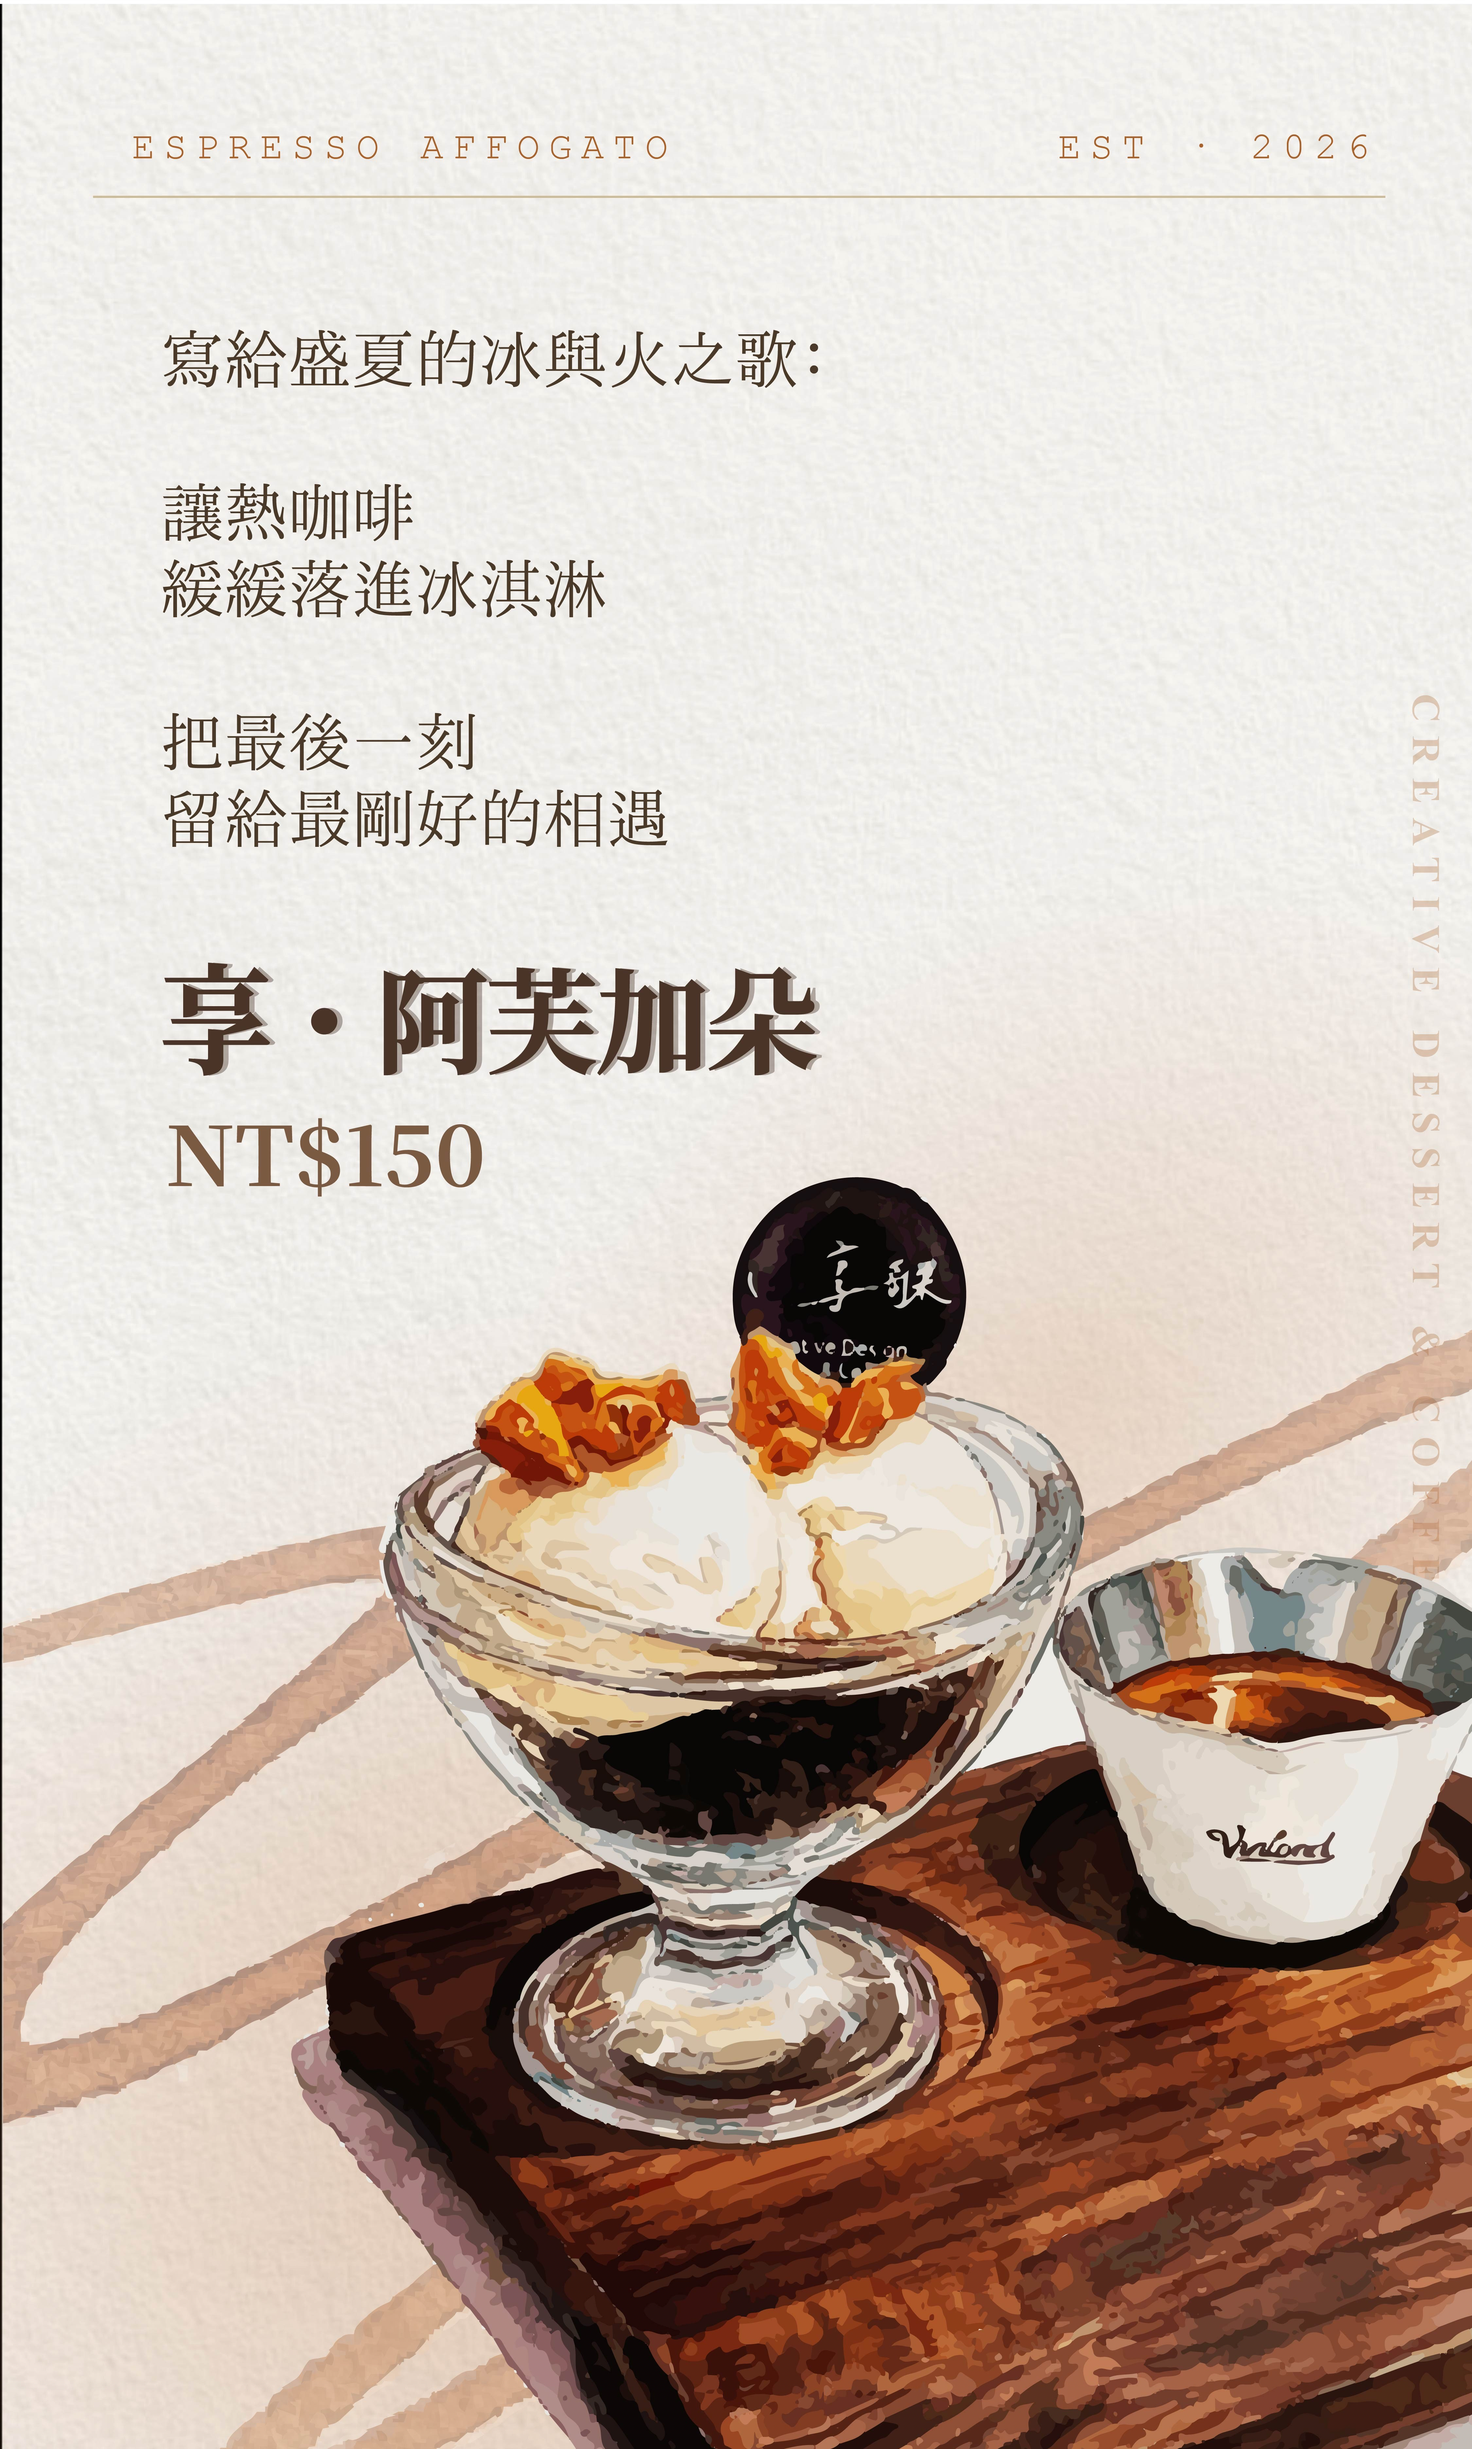
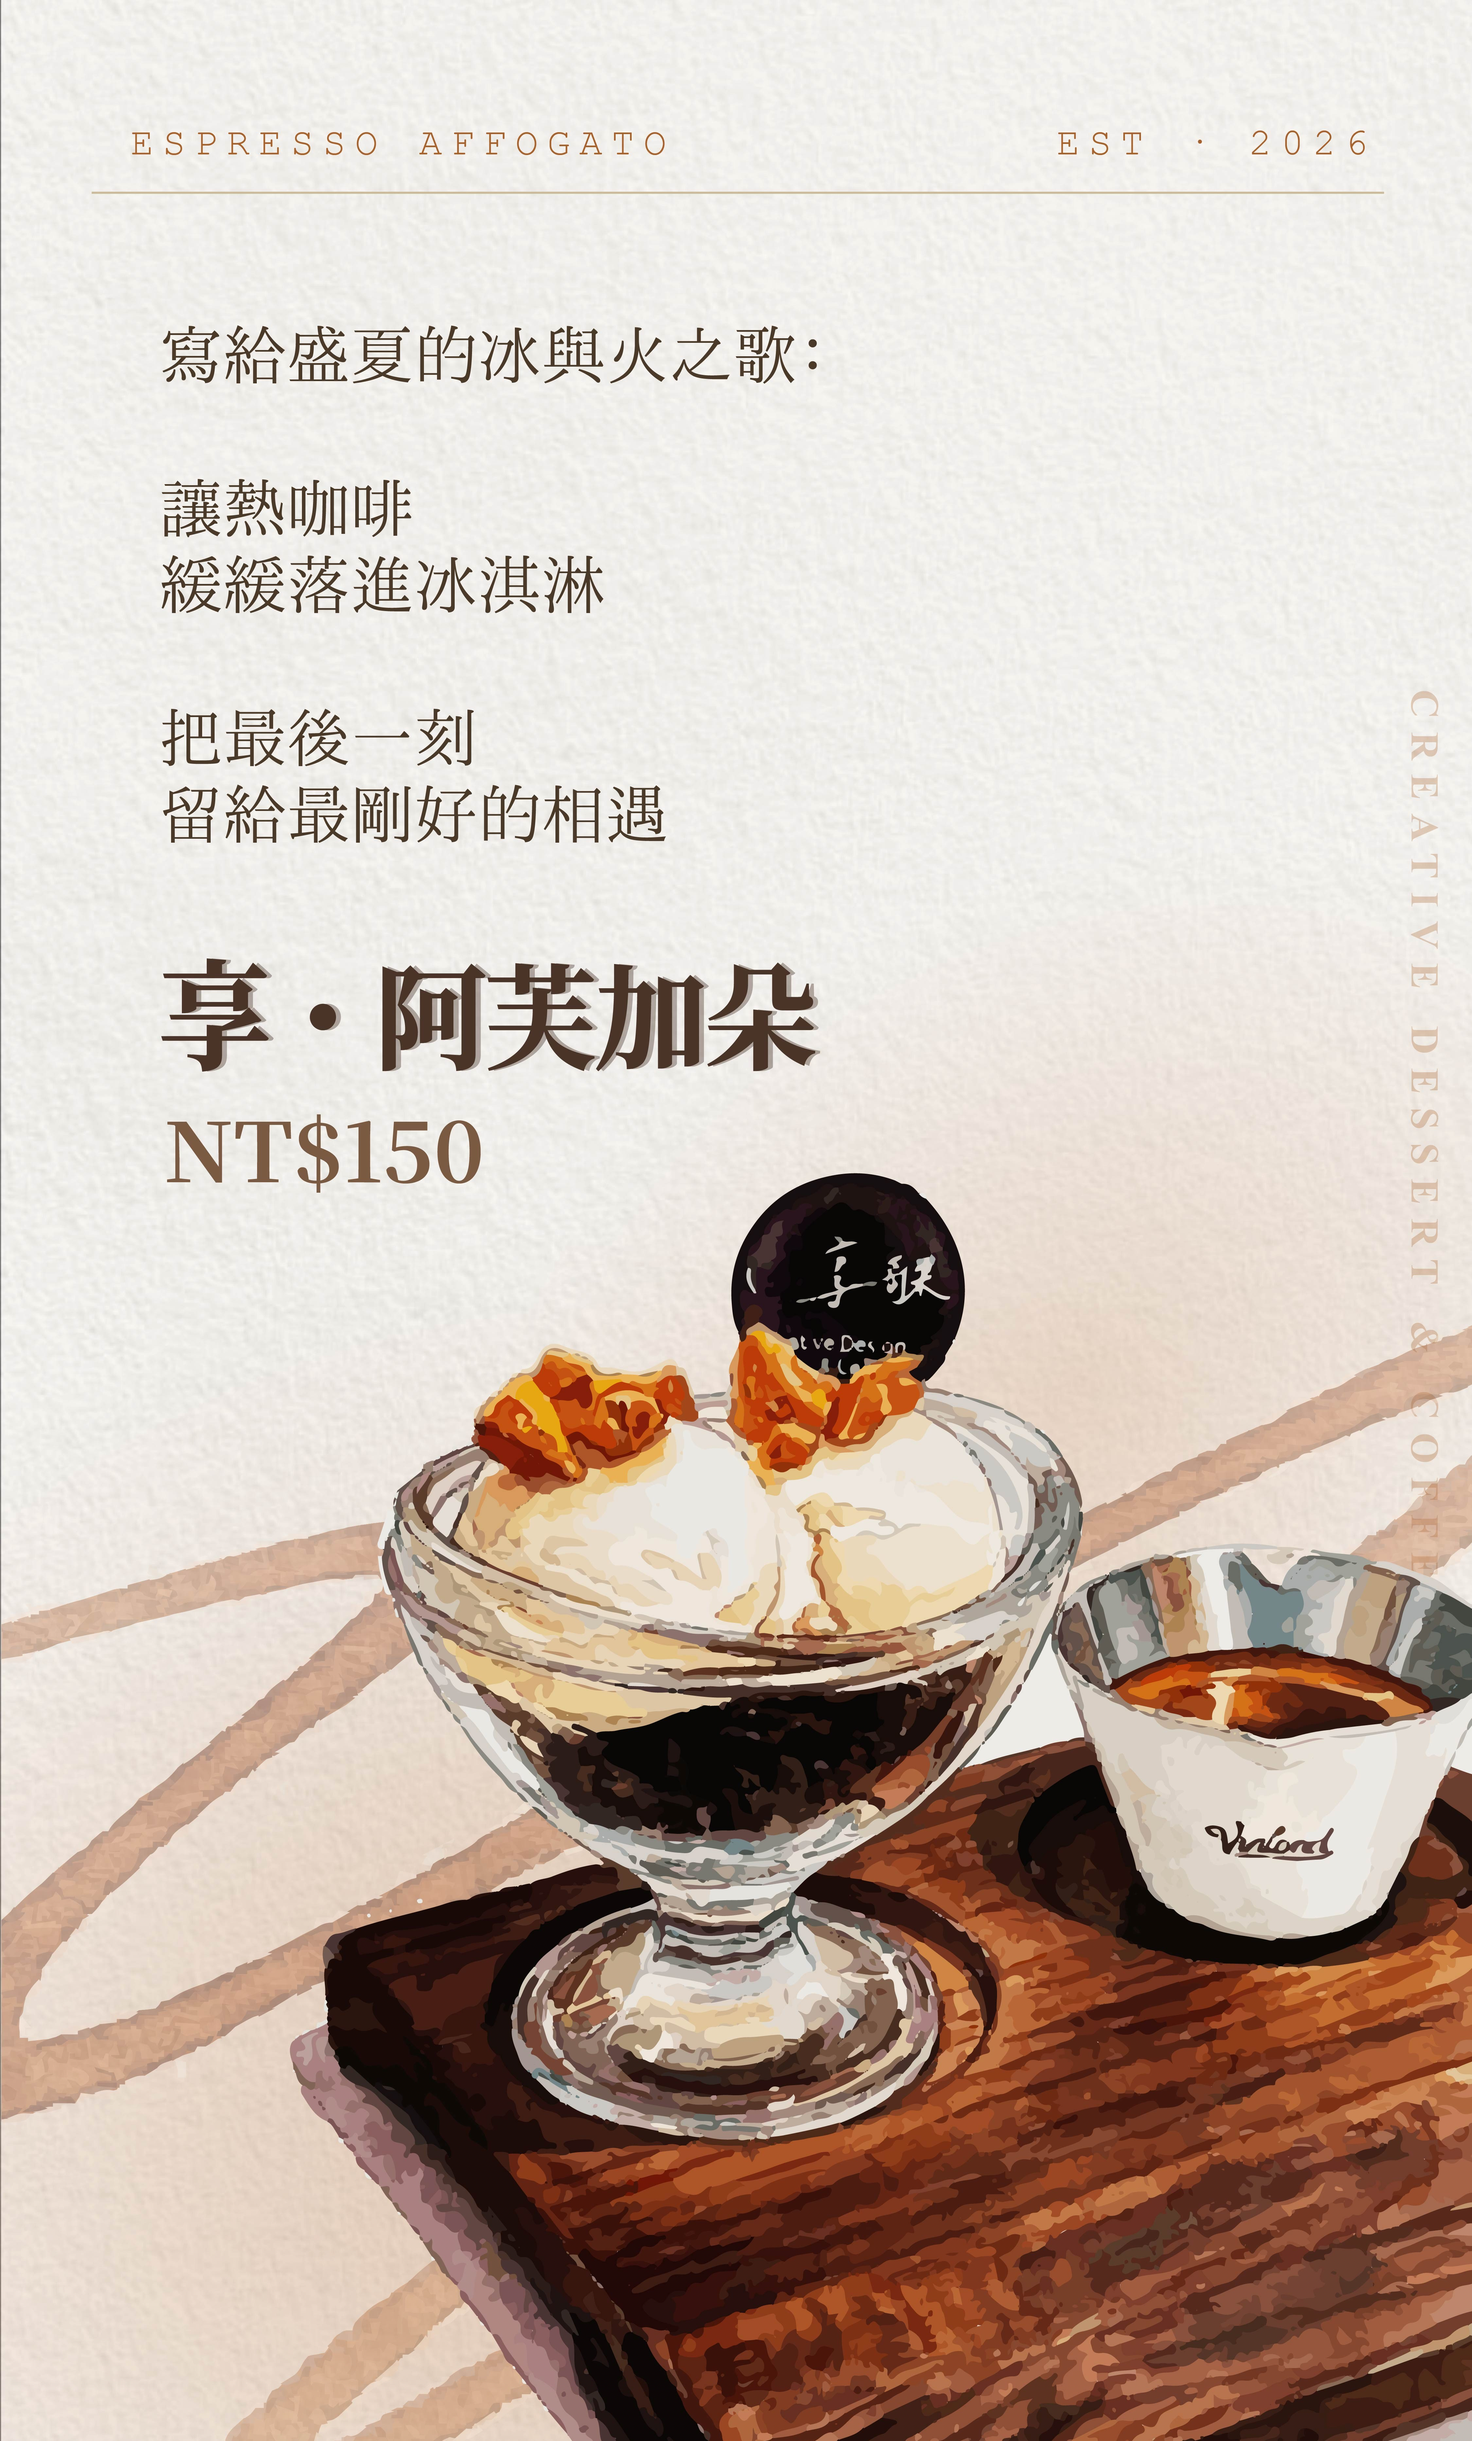
新增輪播圖片功能，更新相關樣式及JavaScript邏輯以支援多張圖片顯示

diff --git a/app.js b/app.js
@@ -140,7 +140,94 @@ function buildTabs() {
     bar.appendChild(btn);
   });
 }
+let bannerCarouselTimer = null;
+let bannerCarouselIndex = 0;
+let bannerCarouselImages = [];
 
+function clearBannerCarousel() {
+  if (bannerCarouselTimer) {
+    clearTimeout(bannerCarouselTimer);
+    bannerCarouselTimer = null;
+  }
+}
+
+function updateBannerDisplayHeight(bannerDisplay, img) {
+  if (!bannerDisplay || !img || !img.naturalWidth) return;
+  const width = bannerDisplay.clientWidth;
+  const height = Math.round((img.naturalHeight / img.naturalWidth) * width);
+  bannerDisplay.style.height = `${height}px`;
+}
+
+function scheduleBannerCarousel() {
+  clearBannerCarousel();
+  if (bannerCarouselImages.length < 2) return;
+  const delay = bannerCarouselIndex === 0 ? 7000 : 5000;
+  bannerCarouselTimer = setTimeout(() => {
+    renderBannerSlide(bannerCarouselIndex + 1);
+    scheduleBannerCarousel();
+  }, delay);
+}
+
+function renderBannerSlide(index, noFade) {
+  const bannerDisplay = document.getElementById('banner-display');
+  if (!bannerDisplay || !bannerCarouselImages.length) return;
+  bannerCarouselIndex = ((index % bannerCarouselImages.length) + bannerCarouselImages.length) % bannerCarouselImages.length;
+  const src = bannerCarouselImages[bannerCarouselIndex];
+  const dots = bannerCarouselImages.map((_, i) =>
+    `<button type="button" class="banner-carousel-dot${i === bannerCarouselIndex ? ' active' : ''}" data-index="${i}" aria-label="切換至第 ${i + 1} 張海報"></button>`
+  ).join('');
+
+  let dotsWrapper = bannerDisplay.querySelector('.banner-carousel-dots');
+  if (!dotsWrapper) {
+    dotsWrapper = document.createElement('div');
+    dotsWrapper.className = 'banner-carousel-dots';
+    dotsWrapper.setAttribute('aria-label', '海報輪播指示');
+    bannerDisplay.appendChild(dotsWrapper);
+  }
+  dotsWrapper.innerHTML = dots;
+
+  const previousSlide = bannerDisplay.querySelector('.banner-slide.visible');
+  const slide = document.createElement('div');
+  slide.className = 'banner-slide';
+  slide.dataset.slideIndex = bannerCarouselIndex;
+  slide.style.zIndex = previousSlide ? 2 : 1;
+  slide.innerHTML = `<img src="${src}" alt="${landingData.bannerAlt || '當季推薦'}">`;
+  bannerDisplay.insertBefore(slide, dotsWrapper);
+
+  const img = slide.querySelector('img');
+  if (img) {
+    if (img.complete && img.naturalWidth) {
+      updateBannerDisplayHeight(bannerDisplay, img);
+    } else {
+      img.addEventListener('load', () => updateBannerDisplayHeight(bannerDisplay, img), { once: true });
+    }
+  }
+
+  if (previousSlide) {
+    previousSlide.style.zIndex = 1;
+  }
+
+  if (noFade) {
+    slide.classList.add('visible');
+  } else {
+    setTimeout(() => slide.classList.add('visible'), 40);
+  }
+
+  if (previousSlide) {
+    setTimeout(() => {
+      if (previousSlide.parentNode) previousSlide.parentNode.removeChild(previousSlide);
+    }, 2600);
+  }
+
+  bannerDisplay.querySelectorAll('.banner-carousel-dot').forEach(btn => {
+    btn.addEventListener('click', () => {
+      const idx = Number(btn.dataset.index);
+      clearBannerCarousel();
+      renderBannerSlide(idx);
+      scheduleBannerCarousel();
+    });
+  });
+}
 /* ═══════════════════════════════════════════
    INIT
    ═══════════════════════════════════════════ */
@@ -160,9 +247,9 @@ function initLanding() {
     hideEl('landing-date-line');
   }
 
-  /* ── Hero image (overrides SVG illustration when provided) ── */
+  /* ── Hero image (single image override) ── */
+  const heroVisual = document.getElementById('hero-visual');
   if (ld.heroImage) {
-    const heroVisual = document.getElementById('hero-visual');
     heroVisual.innerHTML = `<img class="hero-img" src="${ld.heroImage}" alt="${ld.heroTitle || '季節主視覺'}" loading="lazy">`;
   }
   setOrHide('hero-badge',    ld.heroBadge);
@@ -199,12 +286,17 @@ function initLanding() {
      bannerImage null + bannerPlaceholder false/null → 整區塊隱藏 */
   const bannerSection = document.getElementById('banner-section');
   const bannerDisplay = document.getElementById('banner-display');
-  if (ld.bannerImage) {
-    setOrHide('banner-label-text', ld.bannerLabel);
+  clearBannerCarousel();
+  bannerCarouselImages = Array.isArray(ld.bannerImages) ? ld.bannerImages.filter(Boolean) : [];
+  bannerCarouselIndex = 0;
+  setOrHide('banner-label-text', ld.bannerLabel);
+  if (bannerCarouselImages.length) {
+    renderBannerSlide(0, true);
+    scheduleBannerCarousel();
+  } else if (ld.bannerImage) {
     bannerDisplay.innerHTML =
       `<div class="banner-img-wrap"><img src="${ld.bannerImage}" alt="${ld.bannerAlt || '當季推薦'}"></div>`;
   } else if (ld.bannerPlaceholder) {
-    setOrHide('banner-label-text', ld.bannerLabel);
     bannerDisplay.innerHTML = `
       <div class="banner-placeholder">
         <div class="banner-placeholder-icon">🌿</div>

diff --git a/admin.html b/admin.html
@@ -522,7 +522,7 @@
         </label>
       </div>
       <div class="field">
-        <label>圖片網址 <span class="hint">（空白 = 顯示預設插圖）</span></label>
+        <label>單張圖片網址 <span class="hint">（空白 = 顯示預設插圖）</span></label>
         <input type="text" id="ld-heroImage" placeholder="留空則顯示預設插圖">
       </div>
       <div class="field">
@@ -614,6 +614,10 @@
       <div class="field">
         <label>圖片網址 <span class="hint">（空白 = 顯示佔位框或隱藏）</span></label>
         <input type="text" id="ld-bannerImage" placeholder="貼上圖片網址">
+      </div>
+      <div class="field">
+        <label>輪播圖片網址 <span class="hint">（每行一個，優先於單張圖片）</span></label>
+        <textarea id="ld-bannerImages" placeholder="src/BANNER FISH-03.jpg\nsrc/BANNER AFFOGATO-04.jpg"></textarea>
       </div>
       <div class="toggle-row">
         <span class="toggle-label">無圖時顯示灰色佔位框</span>
@@ -784,6 +788,7 @@ function populateLanding() {
     const el = document.getElementById('ld-' + k);
     if (el) el.value = ve(ld[k]);
   });
+  document.getElementById('ld-bannerImages').value = Array.isArray(ld.bannerImages) ? ld.bannerImages.filter(Boolean).join('\n') : '';
   document.getElementById('ld-showDate').checked          = !!ld.showDate;
   document.getElementById('ld-bannerPlaceholder').checked = !!ld.bannerPlaceholder;
   document.getElementById('ld-hideHero').checked           = !!ld.hideHero;
@@ -793,12 +798,20 @@ function populateLanding() {
 
 function readLanding() {
   const t = id => ne(document.getElementById('ld-' + id).value);
+  const multi = id => {
+    const value = document.getElementById('ld-' + id).value || '';
+    return value
+      .split(/\r?\n/)
+      .map(s => s.trim())
+      .filter(Boolean);
+  };
   return {
     cafeName:        t('cafeName'),
     cafeSub:         t('cafeSub'),
     showDate:        document.getElementById('ld-showDate').checked,
     dateSeasonLabel: t('dateSeasonLabel'),
     heroImage:       t('heroImage'),
+    bannerImages:    multi('bannerImages'),
     heroBadge:       t('heroBadge'),
     heroTitle:       t('heroTitle'),
     heroSubtitle:    t('heroSubtitle'),

diff --git a/style.css b/style.css
@@ -173,6 +173,47 @@ body::before {
   animation: floatY 6s ease-in-out infinite;
 }
 
+.hero-carousel-slide {
+  position: relative;
+  width: 100%;
+  height: 320px;
+  overflow: hidden;
+}
+
+.hero-carousel-dots {
+  position: absolute;
+  left: 0;
+  right: 0;
+  bottom: 16px;
+  display: flex;
+  justify-content: center;
+  gap: 8px;
+  padding: 0 10px;
+  z-index: 2;
+}
+
+.hero-carousel-dot {
+  width: 10px;
+  height: 10px;
+  border-radius: 50%;
+  border: 1px solid rgba(255, 252, 247, 0.8);
+  background: rgba(255, 252, 247, 0.45);
+  cursor: pointer;
+  transition: transform 0.2s ease, background 0.2s ease;
+}
+
+.hero-carousel-dot.active {
+  background: var(--caramel);
+  transform: scale(1.1);
+}
+
+.hero-carousel-slide .hero-img {
+  width: 100%;
+  height: 320px;
+  object-fit: cover;
+  display: block;
+}
+
 /* Seasonal badge */
 .seasonal-badge {
   position: absolute;
@@ -395,11 +436,57 @@ body::before {
   overflow: hidden;
   border: 1px solid var(--beige);
 }
-.banner-img-wrap img {
+#banner-display {
+  position: relative;
   width: 100%;
+  min-height: 260px;
+  overflow: hidden;
+}
+.banner-slide {
+  position: absolute;
+  inset: 0;
+  width: 100%;
+  height: 100%;
+  opacity: 0;
+  border-radius: 3px;
+  overflow: hidden;
+  transition: opacity 2.5s ease;
+  background: var(--cream);
+}
+.banner-slide.visible {
+  opacity: 1;
+}
+.banner-slide img {
+  width: 100%;
+  height: auto;
   display: block;
-  object-fit: cover;
+  object-fit: contain;
+  object-position: center center;
   filter: sepia(0.1) saturate(1.06) contrast(1.05) brightness(0.98);
+}
+.banner-carousel-dots {
+  position: absolute;
+  left: 0;
+  right: 0;
+  bottom: 14px;
+  display: flex;
+  justify-content: center;
+  gap: 8px;
+  padding: 0 10px;
+  z-index: 2;
+}
+.banner-carousel-dot {
+  width: 10px;
+  height: 10px;
+  border-radius: 50%;
+  border: 1px solid rgba(255, 252, 247, 0.8);
+  background: rgba(255, 252, 247, 0.45);
+  cursor: pointer;
+  transition: transform 0.2s ease, background 0.2s ease;
+}
+.banner-carousel-dot.active {
+  background: var(--caramel);
+  transform: scale(1.1);
 }
 .banner-placeholder {
   width: 100%;

diff --git a/config.js b/config.js
@@ -258,6 +258,11 @@ const landingData = {
   showDate: false,
   dateSeasonLabel: "Spring Menu",
   heroImage: null,
+  bannerImages: [
+    "src/BANNER FISH-03.jpg",
+    "src/BANNER AFFOGATO-04.jpg",
+    "src/POTATO PICTURE-02.jpg"
+  ],
   heroBadge: "當季限定",
   heroTitle: "草莓千層酥",
   heroSubtitle: "本週限定 · 每日限量",
